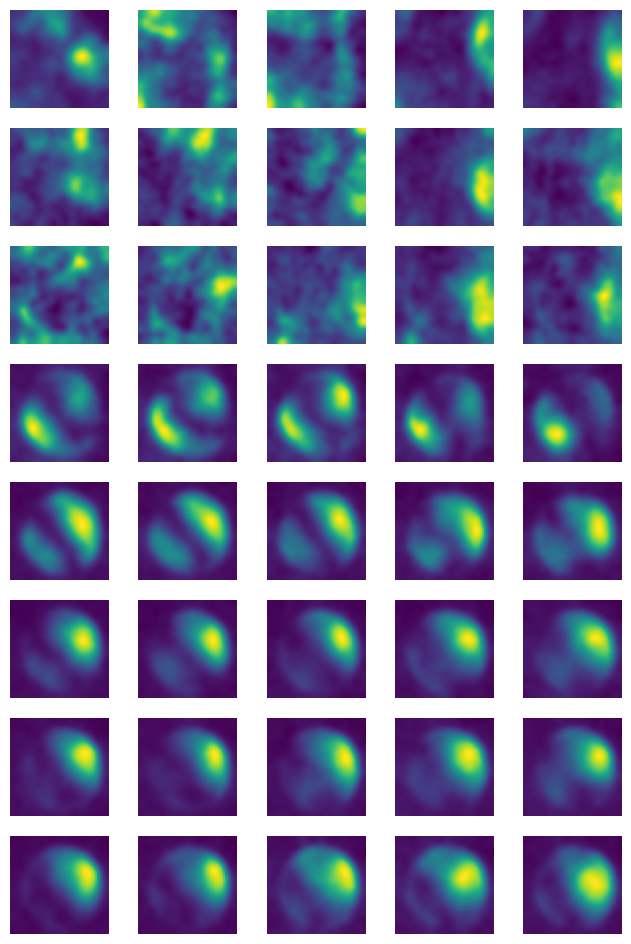
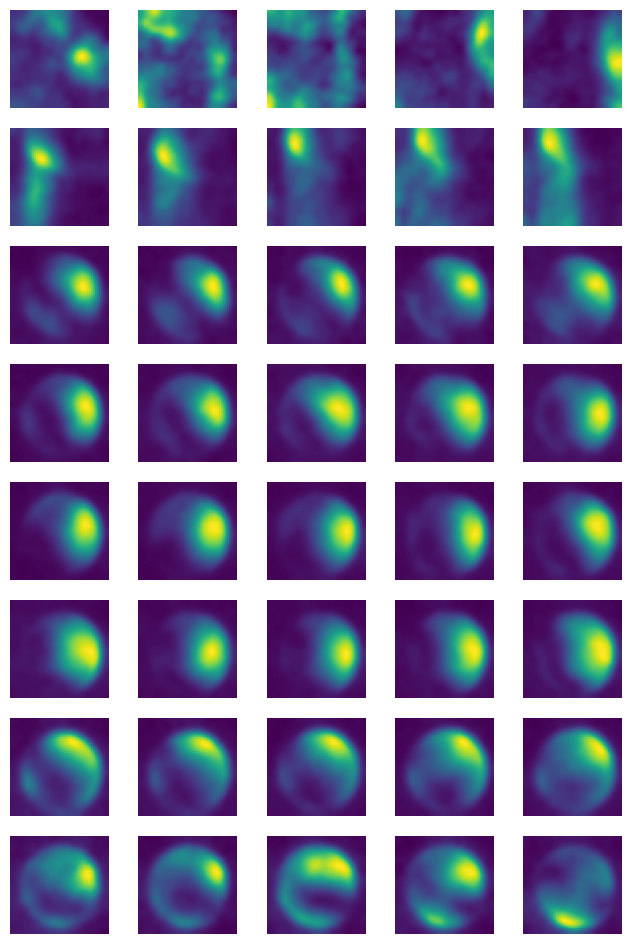
w/o
wo

diff --git a/clustering.py b/clustering.py
@@ -10,15 +10,15 @@ from main import *
 import cv2
 # matplotlib.use('QtAgg')
 #%%
-data_post_011_norm = np.load('output/set4_Ru_011.npy')
+data_post_011_norm = np.load('output/set2_SRO_011.npy')
 # data_post_011_norm = np.concatenate([data_post_011_norm, np.load('output/set4_Ru_011.npy')], axis=0)
 
 def plot_vertical(data):
     fig, axs = plt.subplots(nrows=8, ncols=5, figsize=(8, 12))
-    for i in range(0, 16, 2):
+    for i in range(0, 40, 5):
         for j in range(5):
-            axs[i // 2, j].imshow(data[2, i, j])
-            axs[i // 2, j].axis('off')
+            axs[i // 5, j].imshow(data[2, i, j])
+            axs[i // 5, j].axis('off')
     plt.show()
     
 plot_vertical(data_post_011_norm)
